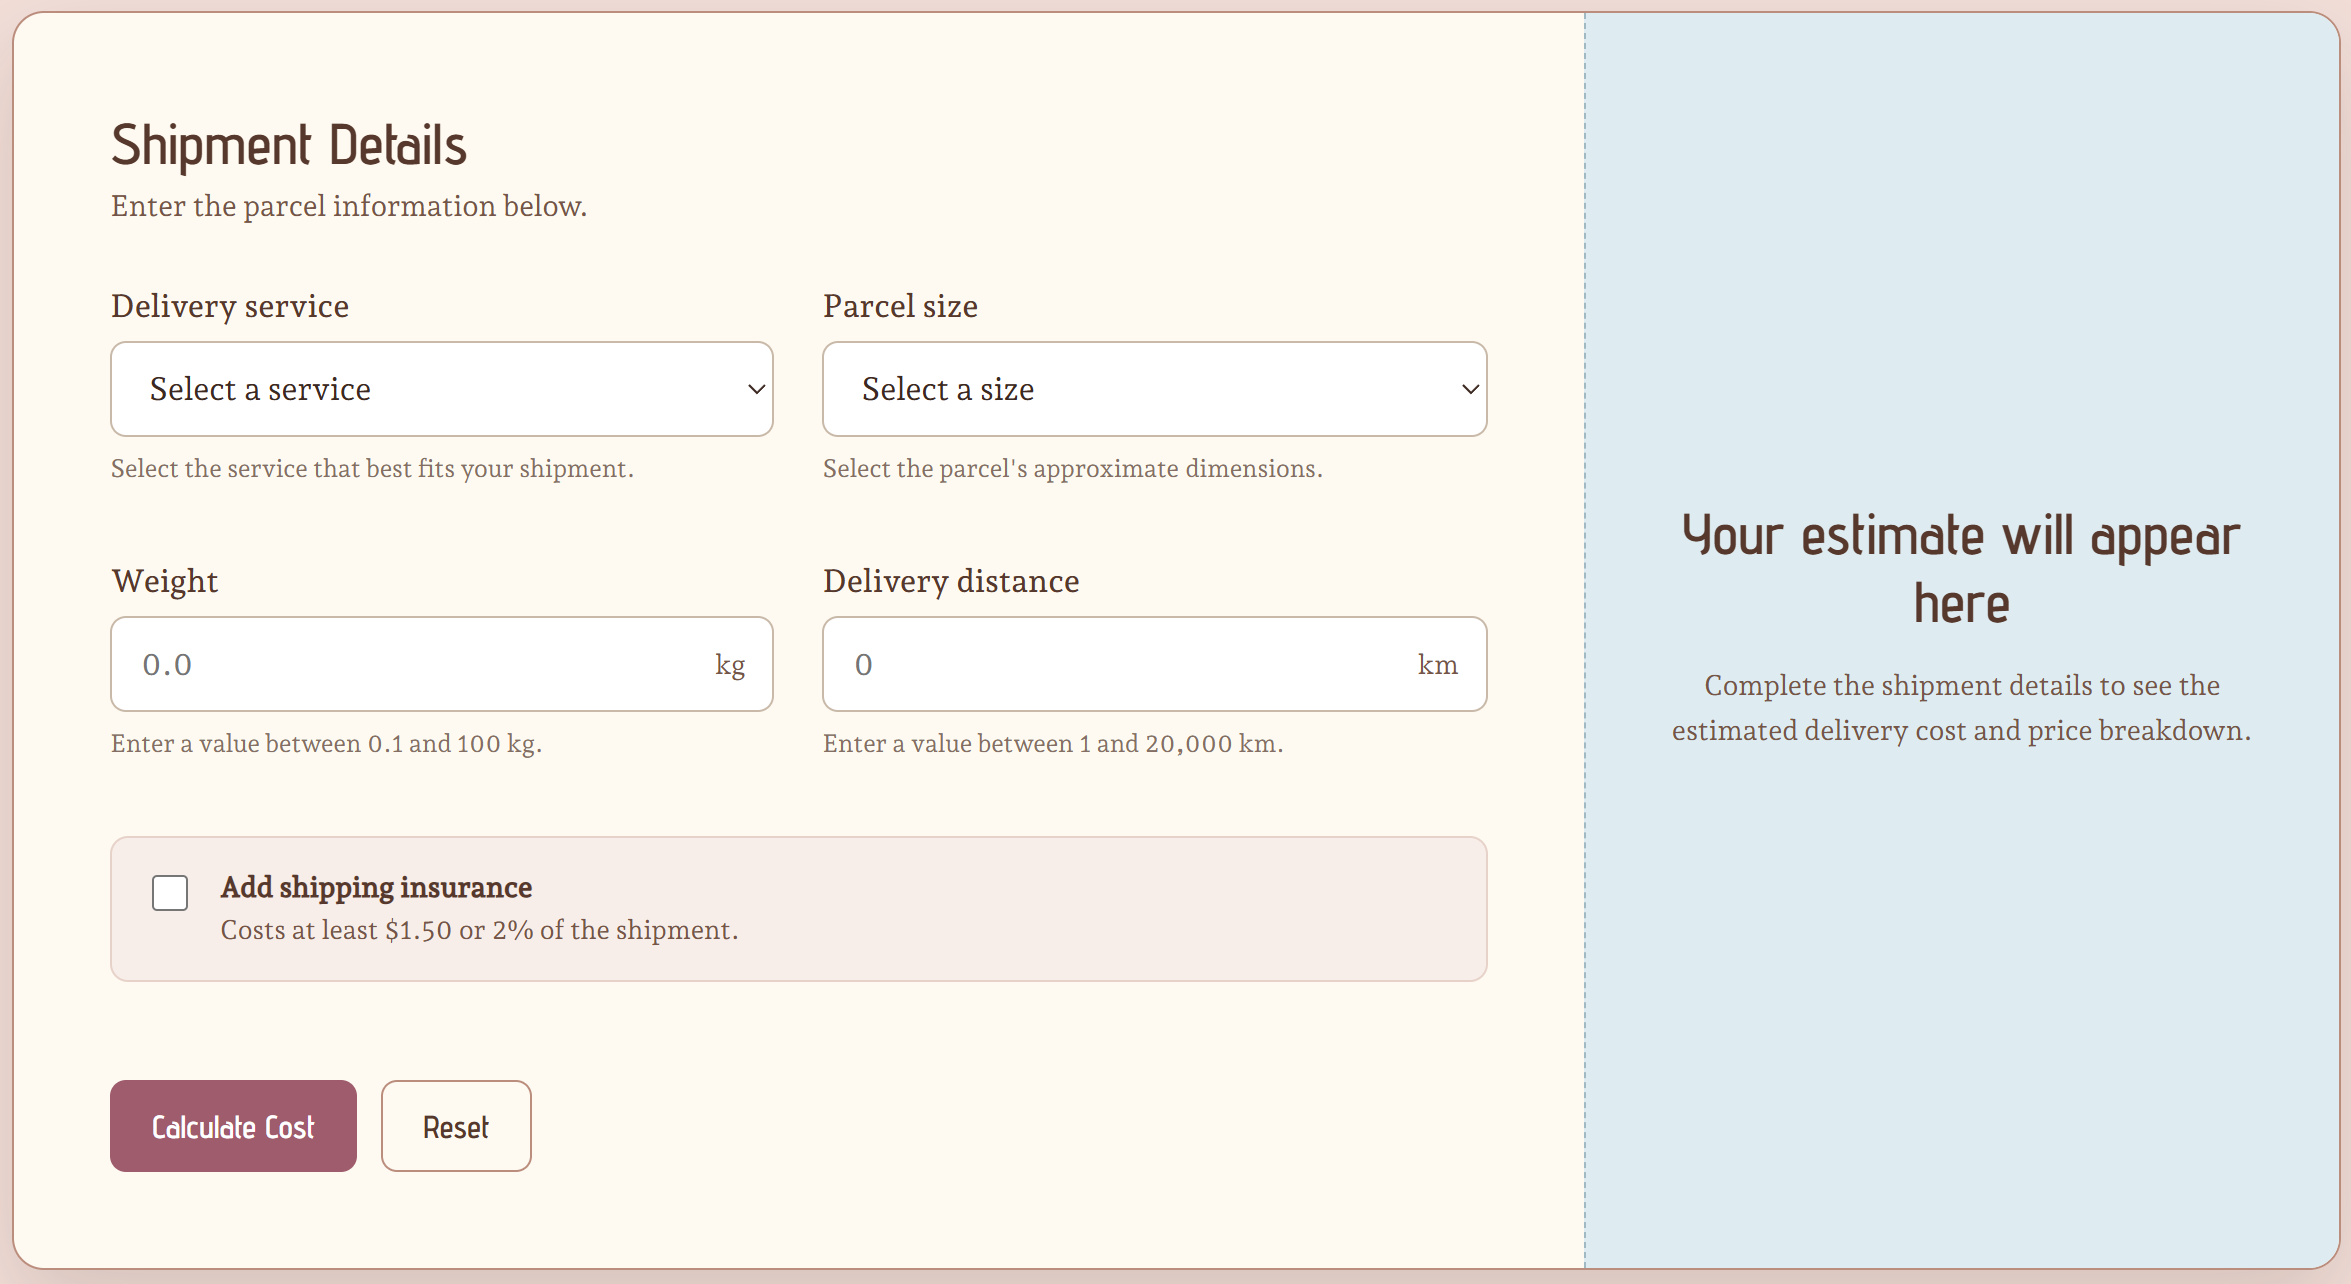
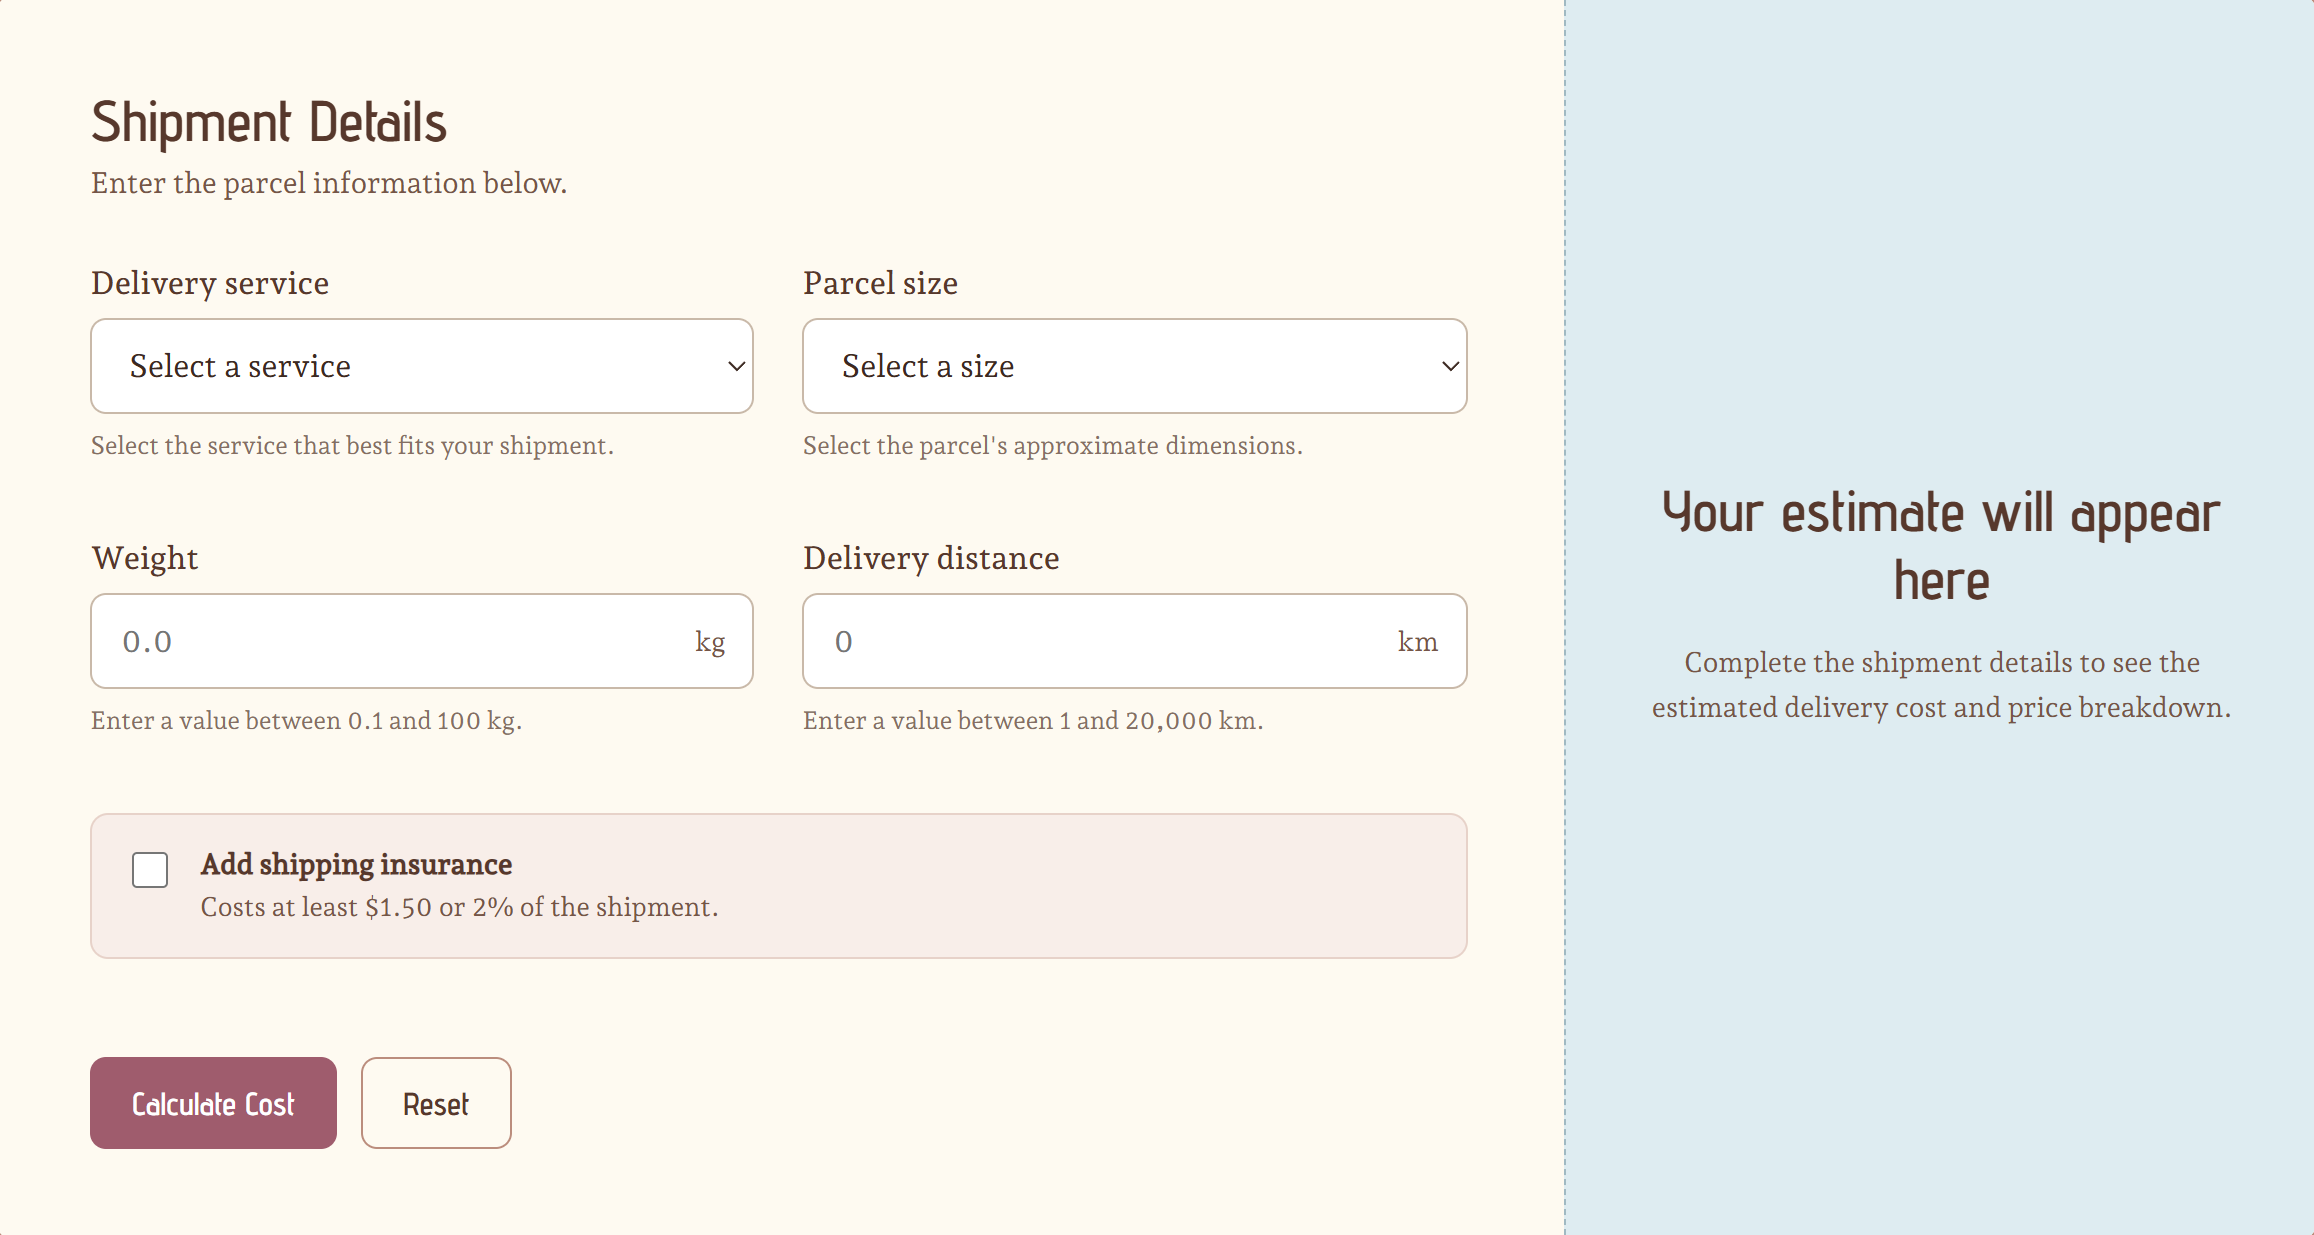
size changes

diff --git a/projects.css b/projects.css
@@ -166,7 +166,6 @@ body {
         width: 100%;
         max-width: 500px;
         margin: 2rem auto 0;
-
         display: grid;
         grid-template-columns: minmax(0, 1fr);
         gap: 1.25rem;
@@ -174,5 +173,14 @@ body {
 
     .project-card {
         width: 100%;
+    }
+
+    .project-image {
+        display: block;
+        width: min(100%, 500px);
+        max-width: none;
+        height: auto;
+        margin: 0 auto 1rem;
+        object-fit: contain;
     }
 }

diff --git a/projects.html b/projects.html
@@ -52,7 +52,7 @@
                 </article>
 
                 <article class="project-card" data-language="java">
-                    <img class="project-image" src="images/bookstore.png">
+                    <img class="project-image" src="images/bookstore-preview.png">
 
                     <div class="project-content">
                         <span class="project-lang">Java | Swing</span>
